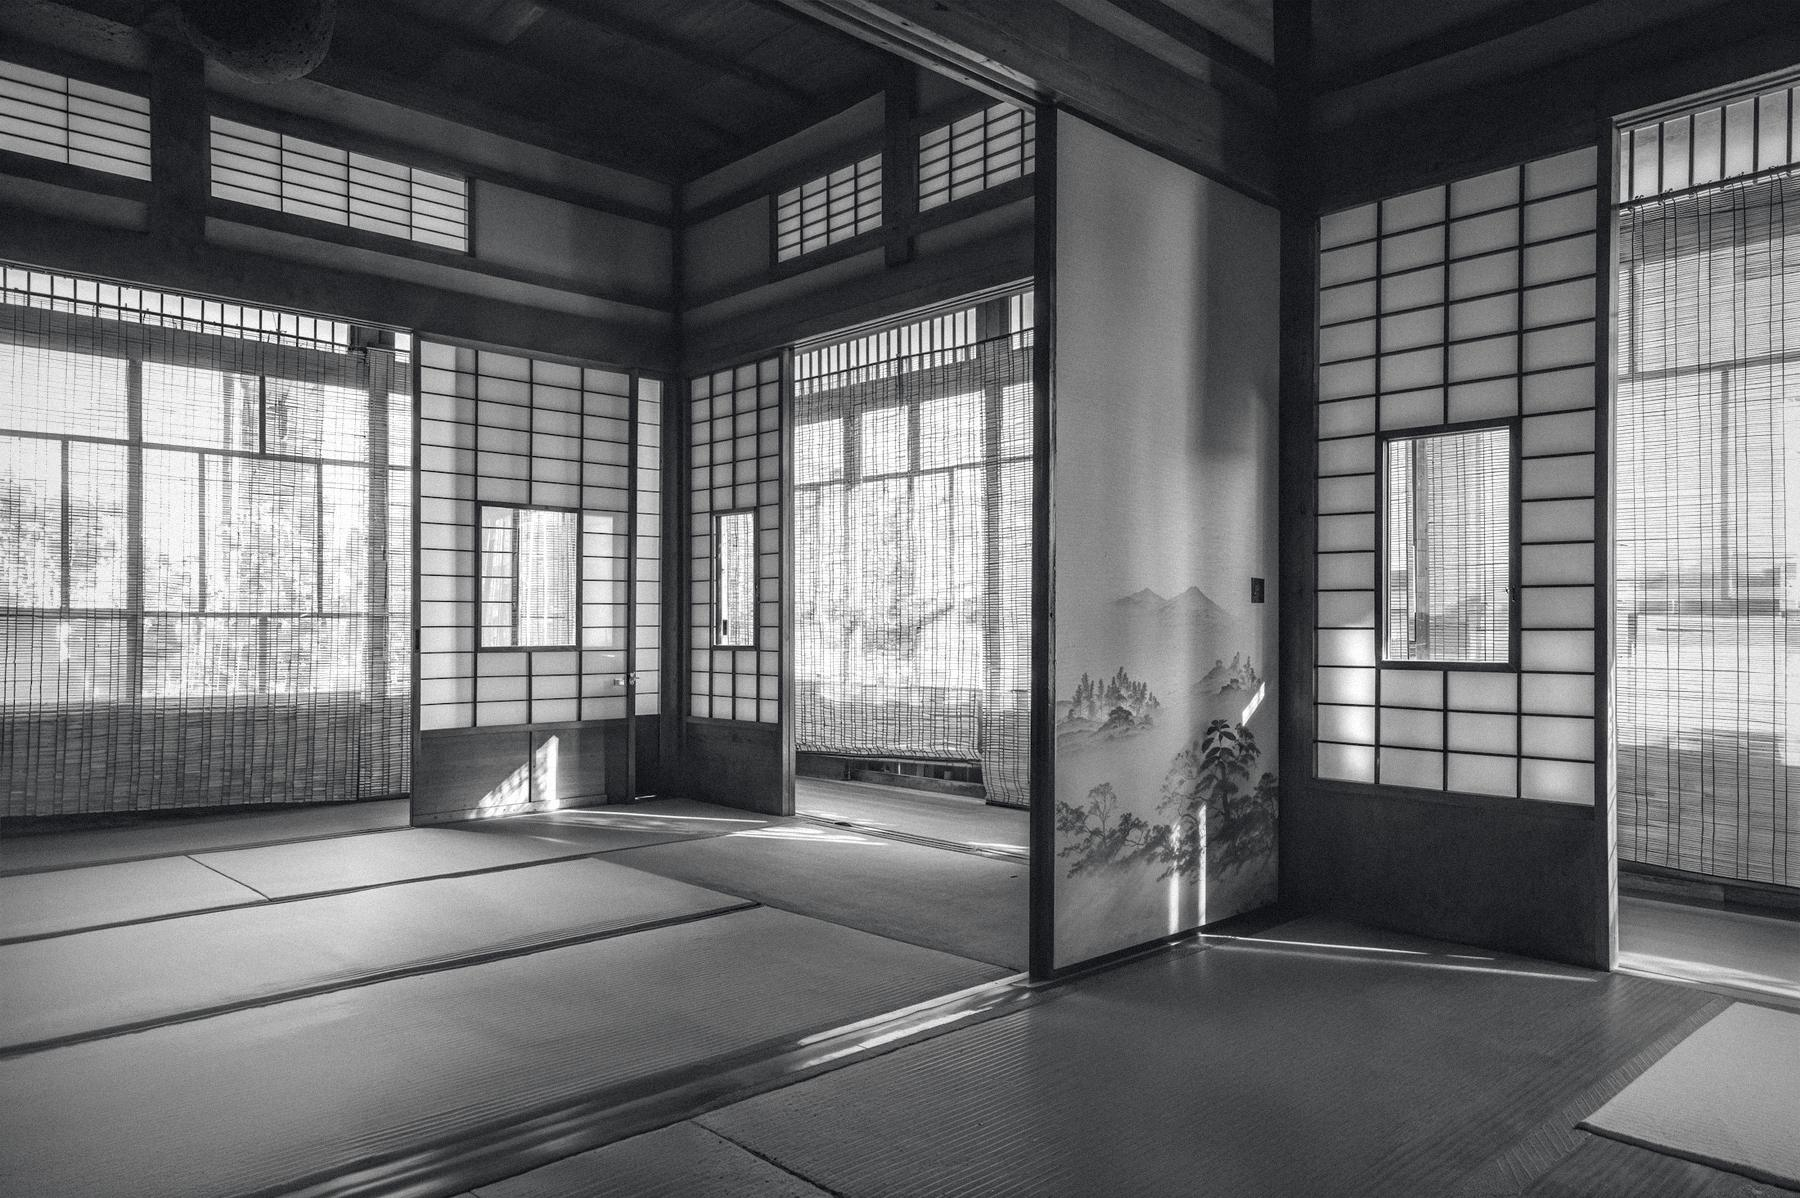
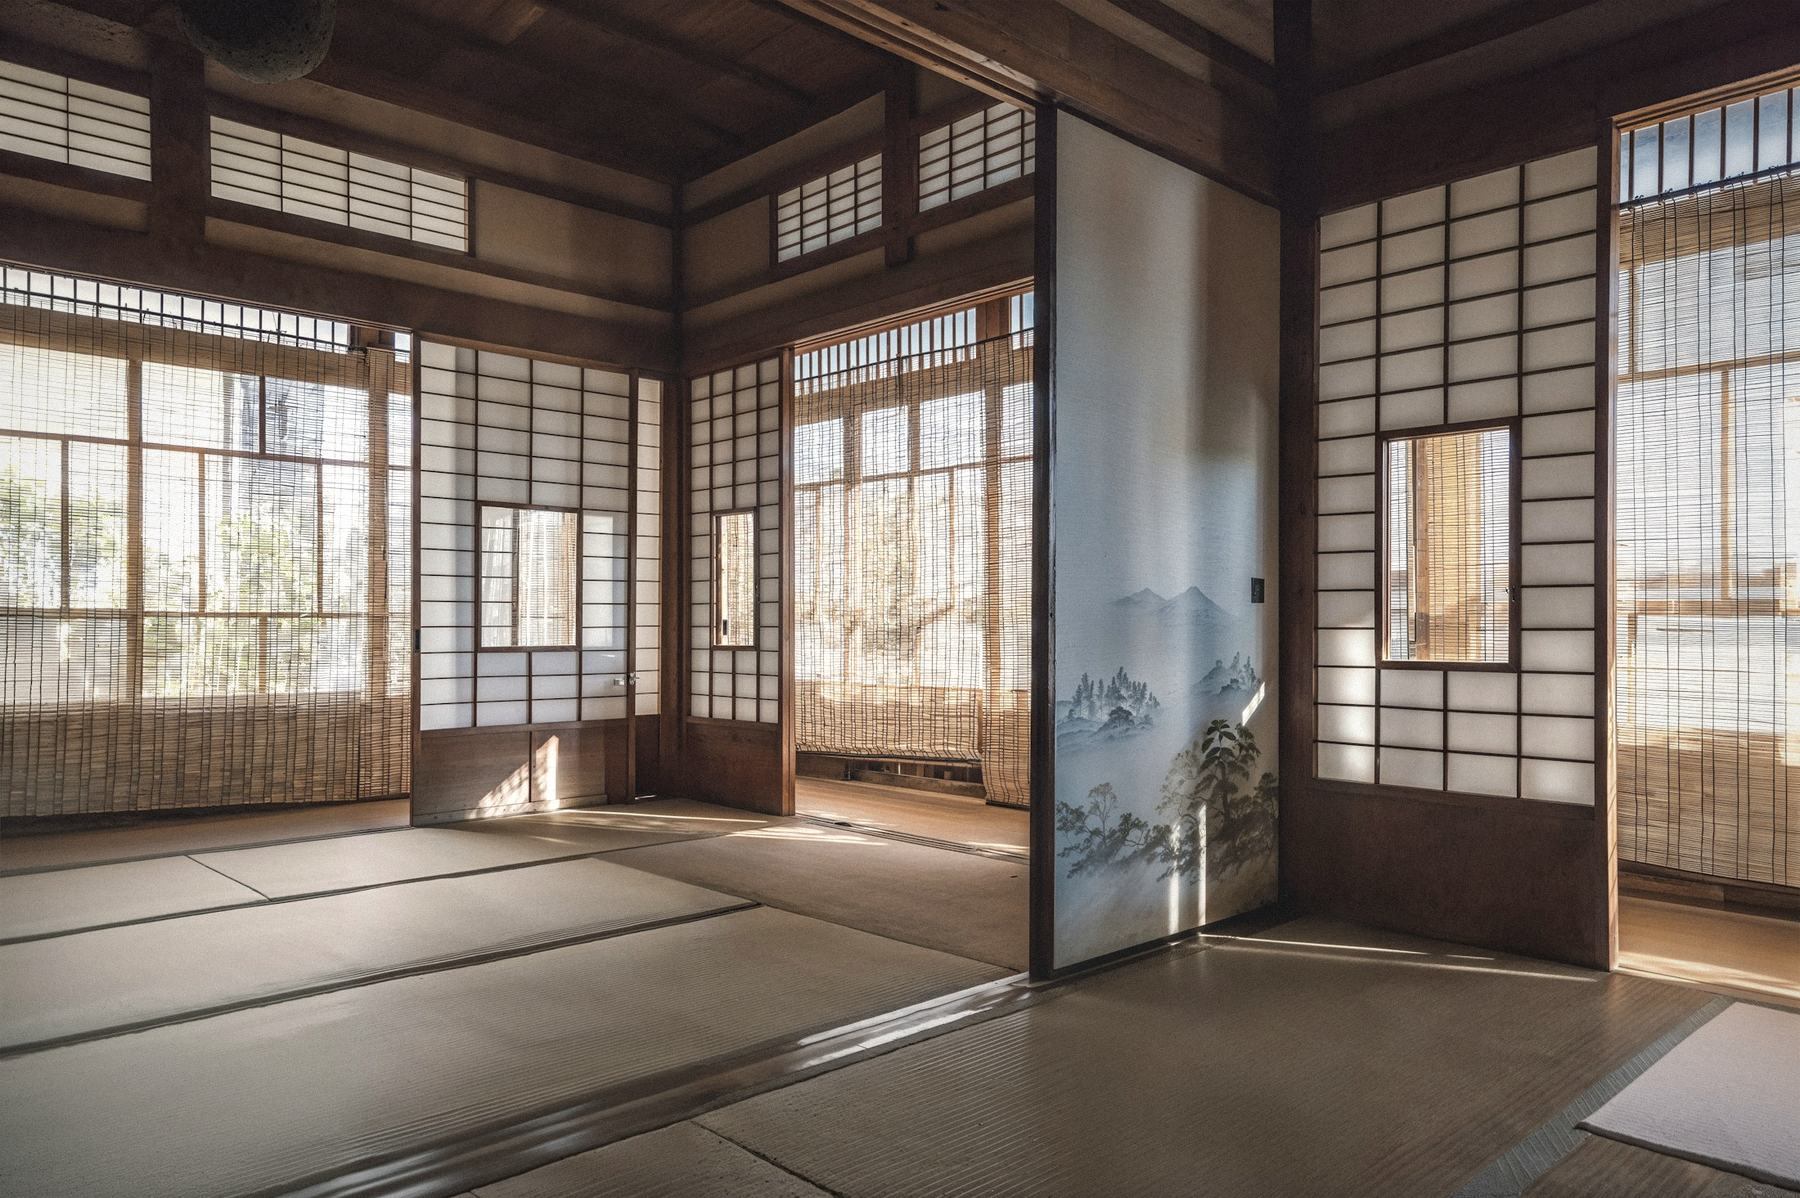
v6.1: indigo night, muted colour landscapes, thinner mist, red-team copy fixes
Claude-Session: https://claude.ai/code/session_01MqeogPgxFQKNFh6H9SCArH

diff --git a/assets/site.css b/assets/site.css
@@ -10,8 +10,8 @@
 @font-face{font-family:'Shippori';src:url(fonts/kanji/shippori-500.woff2) format('woff2');font-weight:500;font-display:swap}
 
 :root{
-  --paper:#F5F4F0; --paper-2:#ECEAE4; --ink:#141414; --ink-2:#2E2E2C; --grey:#6E6D69; --line:rgba(20,20,20,.14); --line-strong:rgba(20,20,20,.5);
-  --ai:#1F3A5F; --night:#0F1A26; --night-2:#16233A; --night-text:#E9ECEF; --night-grey:#9AA4B2; --night-line:rgba(233,236,239,.16);
+  --paper:#F6F4EE; --paper-2:#EDEAE2; --ink:#141414; --ink-2:#2E2E2C; --grey:#6E6D69; --line:rgba(20,20,20,.14); --line-strong:rgba(20,20,20,.5);
+  --ai:#1F3A5F; --night:#182A42; --night-2:#203553; --night-text:#EEF0F2; --night-grey:#A7B0BE; --night-line:rgba(238,240,242,.16);
   --shu:#C8321E;
   --serif:'Instrument Serif',Georgia,serif; --sans:'Instrument Sans',system-ui,sans-serif; --kanji:'Shippori','Hiragino Mincho ProN','Yu Mincho',serif; --brush:'Yuji','Shippori','Hiragino Mincho ProN',serif;
   --margin:96px; --gutter:48px; --measure:62ch;
@@ -38,7 +38,7 @@ img{display:block;max-width:100%}
 .prose p+p{margin-top:1em}
 .small{font-size:14px;line-height:1.5;color:var(--grey)}
 .preface{font-family:var(--serif);font-style:italic;font-size:clamp(19px,1.6vw,23px);line-height:1.35;color:var(--grey);max-width:52ch}
-.preface .k{font-family:var(--brush);font-style:normal;color:var(--ink);margin-right:.4em;font-size:1.1em}
+.preface .k{font-family:var(--brush);font-style:normal;color:var(--ai);margin-right:.4em;font-size:1.1em}
 .note{font-family:var(--serif);font-style:italic;font-size:20px;color:var(--grey)}
 .kanji{font-family:var(--kanji);font-weight:400}
 .night .lead,.night .prose,.night .prose p{color:var(--night-text)}
@@ -100,7 +100,7 @@ img{display:block;max-width:100%}
 .full .ph{width:100%;height:100%;object-fit:cover;display:block}
 .full .shade{position:absolute;inset:0;background:linear-gradient(to top,rgba(20,20,20,.84),rgba(20,20,20,.4) 28%,rgba(20,20,20,0) 58%)}
 .full .text{position:absolute;left:calc(var(--margin) + var(--gutter));right:var(--gutter);bottom:44px;display:flex;flex-wrap:wrap;justify-content:space-between;align-items:flex-end;gap:16px 32px;color:#F5F4F0}
-.full .text .note{color:rgba(245,244,240,.75)}
+.full .text .note{color:rgba(246,244,238,.75)}
 .cap{font-family:var(--serif);font-style:italic;font-size:clamp(22px,2.4vw,34px);line-height:1.2}
 @media(max-width:900px){.full .text{left:var(--gutter)}.st.full{padding:0}.station{padding-top:88px;padding-bottom:88px}}
 .frame{overflow:hidden;position:relative}
@@ -115,7 +115,7 @@ img{display:block;max-width:100%}
 .closing .ph{opacity:.9}
 .closing .shade{position:absolute;inset:0;background:rgba(20,20,20,.58)}
 .closing .text{position:absolute;inset:0;display:flex;flex-direction:column;align-items:center;justify-content:center;text-align:center;gap:28px;padding:0 var(--gutter);color:#F5F4F0}
-.closing .btn{color:#F5F4F0;border-color:rgba(245,244,240,.6)}.closing .btn:hover{background:#F5F4F0;color:var(--ink);border-color:#F5F4F0}
+.closing .btn{color:#F5F4F0;border-color:rgba(246,244,238,.6)}.closing .btn:hover{background:#F5F4F0;color:var(--ink);border-color:#F5F4F0}
 .closing .btn.fill{background:#F5F4F0;color:var(--ink);border-color:#F5F4F0}.closing .btn.fill:hover{background:#fff}
 /* rows */
 .rows{display:flex;flex-direction:column}
@@ -178,7 +178,7 @@ textarea{min-height:120px;resize:vertical}
 /* hero */
 .hero{position:relative;height:clamp(600px,92vh,960px);display:flex;flex-direction:column;overflow:hidden;background:var(--paper)}
 .hero canvas{position:absolute;inset:0;width:100%;height:100%;display:block;filter:invert(1);mix-blend-mode:multiply;opacity:.76}
-.hero .fade{position:absolute;inset:0;pointer-events:none;background:linear-gradient(to bottom,var(--paper) 0%,rgba(245,244,240,0) 15%),linear-gradient(to top,var(--paper) 0%,rgba(245,244,240,0) 34%)}
+.hero .fade{position:absolute;inset:0;pointer-events:none;background:linear-gradient(to bottom,var(--paper) 0%,rgba(246,244,238,0) 15%),linear-gradient(to top,var(--paper) 0%,rgba(246,244,238,0) 34%)}
 .hero .body{position:relative;z-index:2;margin-top:auto;padding:0 var(--gutter) 72px calc(var(--margin) + var(--gutter));display:flex;flex-direction:column;gap:28px}
 .hero .side{position:absolute;left:0;top:0;bottom:0;width:var(--margin);display:flex;align-items:flex-end;justify-content:center;padding-bottom:88px;z-index:2}
 .hero .side span{writing-mode:vertical-rl;font-family:var(--kanji);font-size:22px;letter-spacing:.5em;color:var(--ink)}
@@ -190,7 +190,7 @@ textarea{min-height:120px;resize:vertical}
 .night .scroll:before,body.night .scroll:before{background:var(--night-line)}
 .night .line{border-color:var(--night-line)}
 .para{overflow:hidden}.para .ph{height:114%;margin-top:-7%}
-@media(max-width:900px){.nav .cta{display:none}.hero canvas{opacity:.42}.hero .fade{background:linear-gradient(to bottom,var(--paper) 0%,rgba(245,244,240,0) 34%),linear-gradient(to top,var(--paper) 0%,rgba(245,244,240,0) 34%)}}
+@media(max-width:900px){.nav .cta{display:none}.hero canvas{opacity:.42}.hero .fade{background:linear-gradient(to bottom,var(--paper) 0%,rgba(246,244,238,0) 34%),linear-gradient(to top,var(--paper) 0%,rgba(246,244,238,0) 34%)}}
 @media(max-width:600px){.way{flex-direction:column;align-items:flex-start;gap:8px}.way .n{text-align:left}}
 
 /* v6: photography led */
@@ -199,29 +199,29 @@ textarea{min-height:120px;resize:vertical}
 .cine .ph{position:absolute;inset:0;width:100%;height:100%;object-fit:cover;display:block}
 .cine .veil{position:absolute;inset:0;pointer-events:none}
 .cine .body{position:relative;z-index:2}
-.cine .place{position:absolute;right:var(--gutter);bottom:26px;z-index:2;font-family:var(--serif);font-style:italic;font-size:14px;color:rgba(245,244,240,.62);max-width:46ch;text-align:right}
+.cine .place{position:absolute;right:var(--gutter);bottom:26px;z-index:2;font-family:var(--serif);font-style:italic;font-size:14px;color:rgba(246,244,238,.62);max-width:46ch;text-align:right}
 .hero6{height:clamp(640px,100vh,1040px);display:flex;flex-direction:column}
 .hero6 .panel{position:absolute;right:0;top:0;bottom:0;width:56%;overflow:hidden}
-.hero6 .panel .ph{position:absolute;inset:0;width:100%;height:100%;object-fit:cover;object-position:50% 28%;filter:brightness(.8) contrast(1.04)}
-.hero6 .panel:after{content:"";position:absolute;inset:0;background:linear-gradient(to right,var(--night) 0%,rgba(15,26,38,.55) 22%,rgba(15,26,38,0) 55%),linear-gradient(to top,rgba(15,26,38,.85) 0%,rgba(15,26,38,0) 40%),linear-gradient(to bottom,rgba(15,26,38,.7) 0%,rgba(15,26,38,0) 28%)}
+.hero6 .panel .ph{position:absolute;inset:0;width:100%;height:100%;object-fit:cover;object-position:50% 28%;filter:brightness(.86) contrast(1.03)}
+.hero6 .panel:after{content:"";position:absolute;inset:0;background:linear-gradient(to right,var(--night) 0%,rgba(24,42,66,.55) 22%,rgba(24,42,66,0) 55%),linear-gradient(to top,rgba(24,42,66,.85) 0%,rgba(24,42,66,0) 40%),linear-gradient(to bottom,rgba(24,42,66,.7) 0%,rgba(24,42,66,0) 28%)}
 .hero6 canvas{position:absolute;inset:0;width:100%;height:100%;display:block;mix-blend-mode:screen;opacity:.38;pointer-events:none}
-.hero6 .veil{background:linear-gradient(to top,rgba(15,26,38,.5) 0%,rgba(15,26,38,0) 30%)}
+.hero6 .veil{background:linear-gradient(to top,rgba(24,42,66,.5) 0%,rgba(24,42,66,0) 30%)}
 .hero6 .body{margin-top:auto;padding:0 var(--gutter) 84px calc(var(--margin) + var(--gutter));display:flex;flex-direction:column;gap:26px;max-width:1240px}
-.hero6 .mark6{font-family:var(--brush);font-size:clamp(34px,3.6vw,52px);line-height:1;letter-spacing:.12em;color:#F5F4F0}
+.hero6 .mark6{font-family:var(--brush);font-size:clamp(34px,3.6vw,52px);line-height:1;letter-spacing:.12em;color:#F6F4EE}
 .hero6 .h1{color:#F5F4F0;max-width:11ch}
-.hero6 .lead{color:rgba(245,244,240,.86);max-width:60ch}
-.hero6 .btn{color:#F5F4F0;border-color:rgba(245,244,240,.55)}.hero6 .btn:hover{background:#F5F4F0;color:var(--ink);border-color:#F5F4F0}
+.hero6 .lead{color:rgba(246,244,238,.86);max-width:60ch}
+.hero6 .btn{color:#F5F4F0;border-color:rgba(246,244,238,.55)}.hero6 .btn:hover{background:#F5F4F0;color:var(--ink);border-color:#F5F4F0}
 .hero6 .btn.fill{background:#F5F4F0;color:var(--ink);border-color:#F5F4F0}.hero6 .btn.fill:hover{background:#fff;border-color:#fff}
 .hero6 .nav{position:absolute;left:0;right:0;top:0;z-index:3}
 .hero6 .nav .links a,.hero6 .nav .name,.hero6 .nav .links{color:#F5F4F0}.hero6 .nav .links a{opacity:.8}.hero6 .nav .links a:hover,.hero6 .nav .links a.on{opacity:1;border-bottom-color:#F5F4F0}
-.hero6 .nav .btn{color:#F5F4F0;border-color:rgba(245,244,240,.55)}
-@media(max-width:900px){.hero6{height:clamp(600px,92vh,860px)}.hero6 .body{padding-left:var(--gutter);padding-bottom:56px}.hero6 canvas{opacity:.28}.cine .place{display:none}.hero6 .panel{width:100%}.hero6 .panel .ph{filter:brightness(.55) contrast(1.04)}.hero6 .panel:after{background:linear-gradient(to top,rgba(15,26,38,.9) 0%,rgba(15,26,38,.3) 50%,rgba(15,26,38,.6) 100%)}}
+.hero6 .nav .btn{color:#F5F4F0;border-color:rgba(246,244,238,.55)}
+@media(max-width:900px){.hero6{height:clamp(600px,92vh,860px)}.hero6 .body{padding-left:var(--gutter);padding-bottom:56px}.hero6 canvas{opacity:.28}.cine .place{display:none}.hero6 .panel{width:100%}.hero6 .panel .ph{filter:brightness(.55) contrast(1.04)}.hero6 .panel:after{background:linear-gradient(to top,rgba(24,42,66,.9) 0%,rgba(24,42,66,.3) 50%,rgba(24,42,66,.6) 100%)}}
 /* a plate: full-bleed photo with a caption, used as a station */
 .plate{position:relative;height:clamp(480px,78vh,900px);overflow:hidden;background:var(--night)}
 .plate .ph{position:absolute;inset:0;width:100%;height:100%;object-fit:cover;display:block}
-.plate .veil{position:absolute;inset:0;background:linear-gradient(to top,rgba(15,26,38,.82),rgba(15,26,38,.25) 36%,rgba(15,26,38,0) 62%)}
+.plate .veil{position:absolute;inset:0;background:linear-gradient(to top,rgba(24,42,66,.82),rgba(24,42,66,.25) 36%,rgba(24,42,66,0) 62%)}
 .plate .text{position:absolute;left:calc(var(--margin) + var(--gutter));right:var(--gutter);bottom:44px;display:flex;flex-wrap:wrap;justify-content:space-between;align-items:flex-end;gap:16px 32px;color:#F5F4F0}
-.plate .text .note{color:rgba(245,244,240,.7)}
+.plate .text .note{color:rgba(246,244,238,.7)}
 .plate.tall{height:clamp(560px,100vh,1000px)}
 .st.plate{padding:0 0 0 var(--margin)}
 @media(max-width:900px){.plate .text{left:var(--gutter)}.st.plate{padding:0}}
@@ -229,7 +229,7 @@ textarea{min-height:120px;resize:vertical}
 .duo{display:grid;grid-template-columns:1fr 1fr;gap:24px}
 .duo figure{position:relative;height:clamp(360px,54vw,760px);overflow:hidden}
 .duo .ph{width:100%;height:100%;object-fit:cover;display:block}
-.duo figcaption{position:absolute;left:18px;bottom:16px;right:18px;font-family:var(--serif);font-style:italic;font-size:15px;color:rgba(245,244,240,.85);text-shadow:0 1px 12px rgba(0,0,0,.5)}
+.duo figcaption{position:absolute;left:18px;bottom:16px;right:18px;font-family:var(--serif);font-style:italic;font-size:15px;color:rgba(246,244,238,.85);text-shadow:0 1px 12px rgba(0,0,0,.5)}
 @media(max-width:700px){.duo{grid-template-columns:1fr}.duo figure{height:clamp(320px,80vw,520px)}}
 /* the hinge: large brush character on night */
 .hinge{display:flex;flex-direction:column;align-items:center;text-align:center;gap:22px;padding:40px 0}
@@ -242,7 +242,7 @@ textarea{min-height:120px;resize:vertical}
 .credit{font-size:12px;color:var(--grey)}
 
 .plate.light{background:#F3F2EE}
-.plate.light .veil{background:linear-gradient(to top,rgba(245,244,240,.92),rgba(245,244,240,.5) 34%,rgba(245,244,240,0) 60%)}
+.plate.light .veil{background:linear-gradient(to top,rgba(246,244,238,.92),rgba(246,244,238,.5) 34%,rgba(246,244,238,0) 60%)}
 .plate.light .text{color:var(--ink)}
 .plate.light .text .note{color:var(--grey)}
 .plate.light .lead{color:var(--ink-2)}
